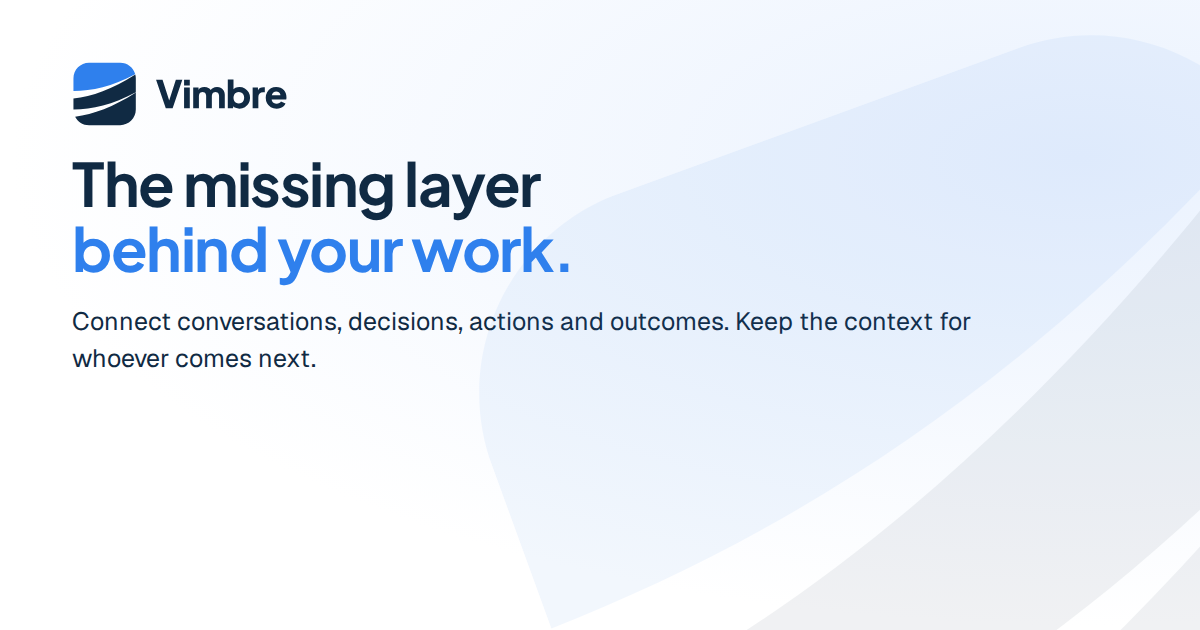
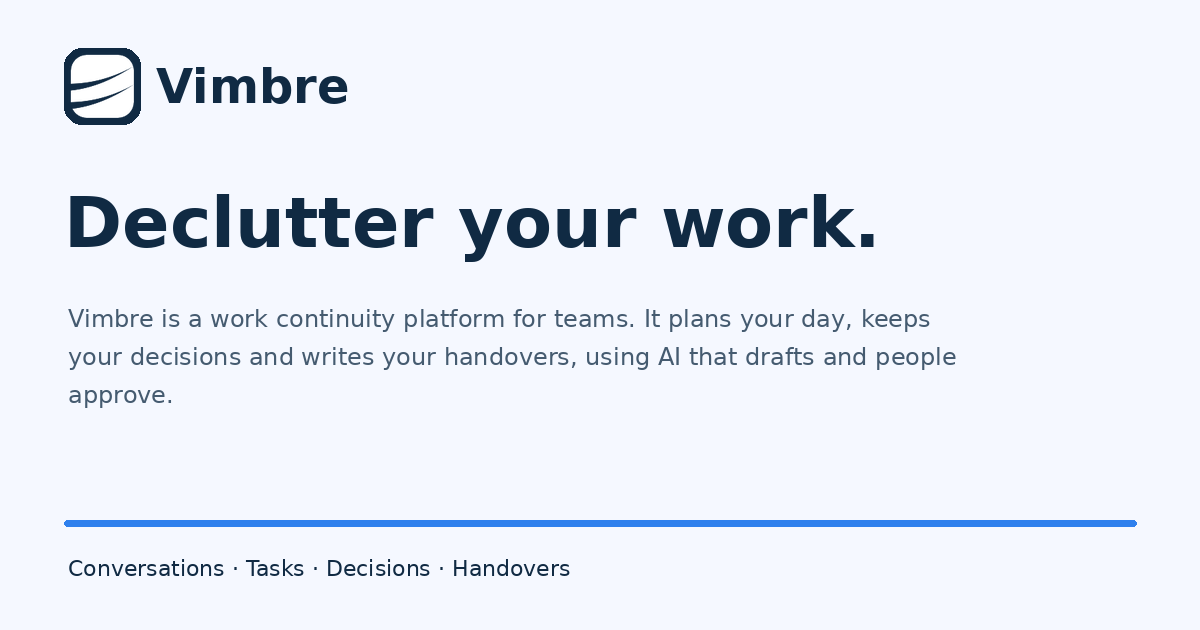
Add shared public page content and demo screenshots [skip ci]

diff --git a/src/features/public/public-content.ts b/src/features/public/public-content.ts
@@ -1,0 +1,26 @@
+export const definition='Vimbre is a work continuity platform for teams. It plans your day, keeps your decisions and writes your handovers, using AI that drafts and people approve.'
+export const headline='Declutter your conversations, tasks, decisions, contacts, handovers and week.'
+export const integrations=[
+ {id:'teams',name:'Microsoft Teams',detail:'Bring selected conversations into Capture.'},
+ {id:'trello',name:'Trello',detail:'Bring selected cards into Capture.'},
+ {id:'slack',name:'Slack',detail:'Bring selected conversations into Capture.'},
+ {id:'outlook',name:'Outlook',detail:'Bring selected email into Capture.'},
+ {id:'github',name:'GitHub',detail:'Bring selected repository records into Capture.'},
+ {id:'notion',name:'Notion',detail:'Bring selected pages into Capture.'},
+ {id:'asana',name:'Asana',detail:'Bring selected tasks into Capture.'},
+ {id:'yahoo',name:'Yahoo Mail',detail:'Direct connection is not available. You can paste email text into Capture.'},
+]
+export const features=['Conversation capture and reviewed task drafts','Daily task planning','Decision records','Role contacts','Reviewed handovers','Weekly and monthly summaries','Team chat and private workspace questions']
+export const publicPages:Record<string,{title:string;description:string;heading:string;intro:string;sections:[string,string][]}>={
+ '/pricing':{title:'Pricing | Vimbre',description:'Compare Vimbre Free, Starter, Growth, Business and Enterprise plans, monthly GBP prices, team sizes and AI allowances.',heading:'How much does Vimbre cost?',intro:'Choose a plan for the people and work you need to keep connected.',sections:[]},
+ '/faq':{title:'FAQ | Vimbre',description:'Answers about Vimbre, reviewed AI drafts, account types, integrations, pricing and information access.',heading:'Questions about Vimbre',intro:'What to know before bringing your work into Vimbre.',sections:[]},
+ '/how-it-works':{title:'How Vimbre works | Vimbre',description:'See how conversations become reviewed tasks and decisions, a daily plan and a handover in Vimbre.',heading:'How does Vimbre work?',intro:'Bring in the conversation. Check the draft. Keep the work ready for the next person.',sections:[['Bring in the conversation','Paste text or select a source from an available connection. Your Capture drafts stay private until you review and confirm them.'],['Review the suggested work','Check the task, owner and date. Edit or dismiss suggestions before saving.'],['Plan the day','Keep tasks, due dates and priorities together. Ask AI to suggest what deserves attention today, then accept or change the suggestions.'],['Prepare the handover','Choose the tasks and role records to include. Review the AI draft and follow your company’s approval process.']]},
+ '/integrations':{title:'Integrations | Vimbre',description:'Explore Microsoft Teams, Trello, Slack, Outlook, GitHub, Notion, Asana and the current Yahoo Mail connection status.',heading:'What does Vimbre work with?',intro:'Bring selected work into Capture. Connection availability depends on your company settings and provider setup.',sections:[]},
+ '/use-cases/handover':{title:'Work handovers | Vimbre',description:'Prepare a reviewed handover from selected tasks, decisions, contacts and role records in Vimbre.',heading:'How do you prepare a clearer handover?',intro:'Give the person covering the work its priorities, decisions and next steps.',sections:[['Choose what the person needs','Select relevant tasks and role records, set the cover dates and choose a cover person.'],['Review the draft','Use Vimbre AI to draft from the selected records, or write the handover yourself. Edit before sending it for review.'],['Keep cover access specific','Approved cover follows the selected work and dates. Private notes are not included unless explicitly selected and permitted.']]},
+ '/use-cases/decisions':{title:'Decision records | Vimbre',description:'Record decisions, who made them, their reasons and the next steps alongside work in Vimbre.',heading:'How do you keep the reason behind a decision?',intro:'Keep what was agreed with who decided, why and what comes next.',sections:[['Capture the agreement','Ask AI for a decision draft from a conversation, or add the record manually.'],['Check the facts','Review the wording, decision maker, date and reason. A suggestion stays a draft until you confirm it.'],['Find the context later','Open the record or ask VimbreAI about records you have permission to read.']]},
+ '/use-cases/workday-planner':{title:'Workday planner | Vimbre',description:'Organise tasks, due dates and reviewed AI priority suggestions with Vimbre My day.',heading:'How do you decide what comes first today?',intro:'See your tasks and due dates together, then choose what needs attention.',sections:[['Start with your tasks','Check today’s work, overdue items and tasks already in progress.'],['Review priorities with AI','Ask for suggestions based on your tasks. Accept, reject or change the suggested priority.'],['Keep the plan current','Update progress as you work and move unfinished tasks to an appropriate date.']]},
+ '/for-individuals':{title:'Vimbre for individuals',description:'Use Vimbre for personal work, tasks, decisions and weekly summaries with an individual account.',heading:'How can individuals use Vimbre?',intro:'Keep your own work, decisions and next steps in one place.',sections:[['Your personal work','Sign up as an Individual and organise your tasks without setting up a company team.'],['A record you can return to','Capture notes, review suggested tasks and decisions, and ask questions about your saved work.'],['A week you can review','Select a week or month to draft a summary from your records.']]},
+ '/for-founders':{title:'Vimbre for sole founders',description:'Keep client work, decisions, contacts and priorities connected with a Vimbre sole founder account.',heading:'How can sole founders use Vimbre?',intro:'Keep track of the decisions and commitments behind your business.',sections:[['Start as a sole founder','Choose As a sole founder at signup and give your workspace a name.'],['Keep client context','Save the tasks, decisions and contacts you need to follow through on conversations.'],['Prepare for help or cover','Keep role records and selected work ready for a handover when someone supports you.']]},
+ '/for-companies':{title:'Vimbre for companies',description:'Use Vimbre to keep team tasks, decisions, role records and reviewed handovers connected within company permissions.',heading:'How can companies use Vimbre?',intro:'Keep work ready to continue when people are away, change roles or need context.',sections:[['Set up the team','Invite members and organise departments and managers where needed.'],['Keep responsibility clear','Use tasks, decision records and role information to preserve the context behind work.'],['Prepare for cover','Review handovers and give cover access to the selected work. Managers see the permitted team overview.']]},
+}
+export const metaFor=(path:string)=>path==='/'?{title:'Vimbre | Declutter your work',description:definition}:publicPages[path]??({title:path==='/tour'?'Product tour | Vimbre':path==='/signup'?'Create your account | Vimbre':path==='/forgot'?'Reset your password | Vimbre':path==='/reset-password'?'Choose a new password | Vimbre':'Log in | Vimbre',description:path==='/tour'?'Explore Vimbre in about a minute, using screenshots from a Demo workspace.':definition})

diff --git a/src/features/public/public-pages.css b/src/features/public/public-pages.css
@@ -1,0 +1,2 @@
+.rs-site .public-hero{padding-top:64px;padding-bottom:48px}.public-hero>.rs-container{text-align:center;max-width:1120px}.public-hero h1{font-size:clamp(42px,7vw,82px);line-height:1.08;margin:16px auto 24px;letter-spacing:-.025em}.public-hero .rf-headline-fixed,.public-hero .rf-rotating-word{display:block}.public-hero .rf-rotating-word{height:auto;min-height:1.15em;white-space:normal;overflow:visible}.public-hero .rf-rotating-word>span{position:static;display:block;color:#2867ce;animation:public-word .4s ease}.public-hero .rs-hero-subhead{max-width:720px;margin-inline:auto;font-size:18px;line-height:1.7}.public-role-picker{display:flex;flex-wrap:wrap;justify-content:center;gap:6px;margin:24px 0 18px}.public-role-picker button,.public-step-tabs button{min-height:44px;padding:8px 16px;border:1px solid #dce4ee;border-radius:24px;background:white;color:#56677b;font:inherit;cursor:pointer}.public-role-picker [aria-pressed=true],.public-step-tabs [aria-pressed=true]{border-color:#2867ce;color:#174caa;background:#edf4ff}.public-hero-card{margin-top:40px;text-align:left;border:1px solid #dce5f0;border-radius:18px;background:white;box-shadow:0 16px 56px #163d6d14;overflow:hidden}.public-card-bar{display:flex;align-items:center;gap:16px;padding:12px 20px;background:#f8fafd;border-bottom:1px solid #e2e8f0;font-size:12px;color:#637487}.public-card-bar>span:first-child{font-weight:600;color:#102a43}.public-card-bar button{margin-left:auto;background:transparent;border:0;color:#2867ce;font:inherit;min-height:32px;cursor:pointer}.public-hero-card picture,.public-screen picture{display:block}.public-hero-card img,.public-screen img{display:block;width:100%;height:auto;max-width:100%;object-fit:contain}.public-hero-caption{padding:20px 24px;border-top:1px solid #e2e8f0}.public-hero-caption p{margin:8px 0;color:#64748b}.public-card-dots{display:flex;gap:2px}.public-card-dots button{padding:12px 4px;border:0;background:none;cursor:pointer}.public-card-dots button:after{content:'';display:block;height:4px;width:24px;background:#dce4ee;border-radius:4px}.public-card-dots button[aria-pressed=true]:after{background:#2867ce}.public-link-grid{display:grid;grid-template-columns:repeat(3,minmax(0,1fr));gap:20px;margin-top:32px}.public-link-grid>a{padding:28px;border:1px solid #dce4ee;border-radius:14px;text-decoration:none;background:white;color:#102a43}.public-link-grid h3{font-size:19px;margin:0 0 14px}.public-link-grid p,.public-integrations p{color:#657487;line-height:1.7}.public-product,.public-brief{background:#f6f9fe}.public-step-tabs{display:flex;gap:8px;flex-wrap:wrap;margin:28px 0 20px}.public-screen{border:1px solid #dce4ee;border-radius:12px;overflow:hidden;background:white}.public-step-caption{display:grid;gap:8px;margin-top:20px}.public-step-caption>span{font-size:12px;font-weight:600;color:#2867ce;text-transform:uppercase;letter-spacing:.05em}.public-step-caption p{margin:0}.public-integrations{display:grid;grid-template-columns:repeat(4,minmax(0,1fr));gap:16px;margin:32px 0}.public-integrations article{padding:20px;border:1px solid #e1e7f0;border-radius:12px}.public-integrations h3{font-size:17px;margin:0 0 12px}.public-integrations p{font-size:14px;margin:0}.public-brief .rs-container{max-width:860px}.public-brief p{line-height:1.8}.public-faq details{border-bottom:1px solid #dce4ee}.public-faq summary{display:flex;justify-content:space-between;gap:16px;padding:22px 0;font-weight:600;cursor:pointer;list-style:none}.public-faq summary::-webkit-details-marker{display:none}.public-faq details p{line-height:1.8;padding-bottom:20px;color:#56677b}.public-faq details[open] summary span{transform:rotate(45deg)}.public-page-intro{padding-top:72px}.public-page-intro h1,.public-tour h1{font-size:clamp(34px,5vw,58px);line-height:1.15;max-width:840px;margin:12px 0 24px}.public-lead{font-size:20px;line-height:1.7;max-width:760px}.public-page-sections{max-width:760px;margin:48px 0}.public-page-sections section{margin:36px 0}.public-page-sections h2{font-size:25px}.public-page-sections p{line-height:1.8}.public-pricing-note{font-size:14px;line-height:1.7;color:#657487}.public-tour-screen{position:relative;max-width:1000px}.public-tour-progress{color:#657487;font-size:13px}.public-hotspot{position:absolute;width:44px;height:44px;transform:translate(-50%,-50%);border:3px solid white;border-radius:50%;background:#2867ce;color:white;font-size:24px;box-shadow:0 0 0 8px #2867ce30;cursor:pointer}.public-tour-actions{display:flex;justify-content:space-between;margin-top:24px;max-width:1000px}.public-tour .rs-container>p{max-width:760px;line-height:1.7}.rs-site .rs-plan{min-width:0}.rs-site .rs-plan ul{padding-left:18px}.rs-site .rs-plan li{display:list-item}.rs-site .rs-header-actions .rs-login{display:inline-flex;align-items:center;white-space:nowrap}.rs-site .rs-nav .rs-mobile-login{display:none}.rs-site .rs-footer nav{flex-wrap:wrap}.rs-site a:focus-visible,.rs-site button:focus-visible,.rs-site summary:focus-visible{outline:2px solid #2867ce;outline-offset:4px}@keyframes public-word{from{opacity:.45;transform:translateY(6px)}to{opacity:1;transform:none}}@media(max-width:900px){.public-integrations{grid-template-columns:repeat(2,minmax(0,1fr))}.public-link-grid{gap:12px}.public-link-grid>a{padding:20px}}@media(max-width:600px){.rs-site .public-hero{padding-top:40px}.public-hero h1{font-size:42px}.public-hero .rs-hero-subhead{font-size:16px}.public-link-grid{grid-template-columns:1fr}.public-hero-card{margin-top:28px}.public-card-bar{gap:8px;padding:8px 12px}.public-card-bar>span:nth-child(2){margin-left:auto}.public-hero-card img,.public-screen img{aspect-ratio:390/844}.public-hero-caption{padding:16px}.public-page-intro{padding-top:40px}.public-page-intro h1,.public-tour h1{font-size:34px}.public-integrations{gap:10px}.public-integrations article{padding:16px 12px}.public-integrations h3{font-size:16px}.public-step-tabs{gap:6px}.public-step-tabs button{padding:8px 12px;font-size:13px}.rs-site .rs-header-inner{gap:8px}.rs-site .rs-header-actions{gap:10px}.rs-site .rs-header .rs-brand img{width:94px;height:auto}.rs-site .rs-header-cta{font-size:12px;padding:10px 12px}.rs-site .rs-header-actions .rs-login{font-size:12px}.rs-site .rs-menu{width:36px;height:44px;padding:6px}.public-tour .public-hotspot{left:75%!important;top:60%!important}}@media(prefers-reduced-motion:reduce){.public-hero .rf-rotating-word>span{animation:none}}
+.rs-site .public-hero h1{text-align:center}.rs-site .public-hero .rs-actions{justify-content:center}

diff --git a/src/features/public/Walkthrough.tsx b/src/features/public/Walkthrough.tsx
@@ -1,0 +1,7 @@
+import {useEffect,useRef,useState} from 'react'
+import {Link} from 'react-router-dom'
+import {walkthrough,type WalkthroughStep} from './walkthrough.config'
+import {trackMarketing} from './marketing-analytics'
+export function WalkthroughImage({step,priority=false}:{step:WalkthroughStep;priority?:boolean}){return <picture><source media="(max-width:600px)" srcSet={`${step.screenshots.mobile.oneX} 1x, ${step.screenshots.mobile.twoX} 2x`}/><img src={step.screenshots.desktop.oneX} srcSet={`${step.screenshots.desktop.oneX} 1x, ${step.screenshots.desktop.twoX} 2x`} width="1440" height="900" loading={priority?'eager':'lazy'} fetchPriority={priority?'high':'auto'} alt={`${step.featureTag} in Demo workspace: ${step.oneLine}`}/></picture>}
+export function Walkthrough({active,onChange}:{active:number;onChange:(n:number)=>void}){const ref=useRef<HTMLDivElement>(null),seen=useRef(new Set<string>());useEffect(()=>{const node=ref.current;if(!node||seen.current.has(walkthrough[active].id))return;const observer=new IntersectionObserver(entries=>{if(entries.some(e=>e.isIntersecting)){seen.current.add(walkthrough[active].id);trackMarketing('walkthrough_view',{step:walkthrough[active].id});observer.disconnect()}},{threshold:.3});observer.observe(node);return()=>observer.disconnect()},[active]);return <div ref={ref} className="public-walkthrough" data-step={walkthrough[active].id}><div className="public-step-tabs" role="group" aria-label="Walkthrough steps">{walkthrough.map((step,i)=><button key={step.id} type="button" aria-pressed={active===i} onClick={()=>onChange(i)}>{step.title}</button>)}</div><div className="public-screen"><WalkthroughImage step={walkthrough[active]}/></div><div className="public-step-caption"><span>{walkthrough[active].featureTag}</span><p>{walkthrough[active].oneLine}</p><Link to="/tour">Take the one-minute tour →</Link></div></div>}
+export function ProductTour(){const [active,setActive]=useState(-1);const [complete,setComplete]=useState(false);const step=walkthrough[Math.max(0,active)];function start(){setActive(0);trackMarketing('tour_start',{})}function next(){if(active===walkthrough.length-1){setComplete(true);trackMarketing('tour_complete',{})}else setActive(i=>i+1)}return <section className="rs-section public-tour"><div className="rs-container"><p className="rs-eyebrow">Demo workspace · About a minute</p><h1 tabIndex={-1}>A quick look at Vimbre</h1>{active<0?<><p>Follow a conversation through tasks, decisions, contacts, a handover and the week’s summary.</p><button className="rs-button" type="button" onClick={start}>Start the tour</button><noscript><ol>{walkthrough.map(s=><li key={s.id}>{s.title}: {s.oneLine}</li>)}</ol></noscript></>:complete?<><h2>Ready for your own work?</h2><p>Create your account and bring in your first conversation.</p><Link className="rs-button" to="/signup" onClick={()=>trackMarketing('cta_click',{location:'final'})}>Get started</Link><button className="rs-text-link" onClick={()=>{setComplete(false);start()}}>Replay the tour</button></>:<><p className="public-tour-progress">Step {active+1} of {walkthrough.length} · {step.featureTag}</p><h2>{step.title}</h2><p>{step.oneLine}</p><div className="public-screen public-tour-screen"><WalkthroughImage step={step} priority/><button className="public-hotspot" type="button" style={{left:step.hotspot.x+'%',top:step.hotspot.y+'%'}} onClick={next} aria-label={step.hotspot.label}>+</button></div><div className="public-tour-actions"><button type="button" className="rs-button rs-button-outline" disabled={active===0} onClick={()=>setActive(i=>i-1)}>Back</button><button type="button" className="rs-button" onClick={next}>{active===walkthrough.length-1?'Finish tour':'Next'}</button></div></>}</div></section>}

diff --git a/src/features/public/walkthrough.config.ts b/src/features/public/walkthrough.config.ts
@@ -1,0 +1,12 @@
+// Standard-density review captures are present. Native 2x export remains pending; use the 1x fallback without upscaling.
+/** All public screenshots and tour steps come from this verified manifest. */
+export type WalkthroughStep = {id:string;title:string;oneLine:string;featureTag:string;lastVerified:string;screenshots:{desktop:{oneX:string;twoX:string};mobile:{oneX:string;twoX:string}};route:string;hotspot:{x:number;y:number;label:string}}
+const screen=(id:string)=>({desktop:{oneX:`/walkthrough/${id}-desktop.png`,twoX:`/walkthrough/${id}-desktop.png`},mobile:{oneX:`/walkthrough/${id}-mobile.png`,twoX:`/walkthrough/${id}-mobile.png`}})
+export const walkthrough:WalkthroughStep[]=[
+ {id:'conversations',title:'Conversations',oneLine:'Bring in a conversation and review the suggested tasks and decisions.',featureTag:'Capture',route:'/app/capture',hotspot:{x:72,y:61,label:'Review the suggested tasks'},lastVerified:'2026-11-03',screenshots:screen('conversations')},
+ {id:'tasks',title:'Tasks',oneLine:'Choose what needs attention today, with your tasks and due dates together.',featureTag:'My day',route:'/app',hotspot:{x:62,y:57,label:'See the tasks for today'},lastVerified:'2026-11-03',screenshots:screen('tasks')},
+ {id:'decisions',title:'Decisions',oneLine:'Keep what was agreed, who decided and why it matters.',featureTag:'My role',route:'/app/role-record?section=decision',hotspot:{x:65,y:48,label:'Read the recorded decision'},lastVerified:'2026-11-03',screenshots:screen('decisions')},
+ {id:'contacts',title:'Contacts',oneLine:'Keep the people someone needs to contact with the work they help with.',featureTag:'My role',route:'/app/role-record?section=external_contact',hotspot:{x:65,y:48,label:'See the supplier contact'},lastVerified:'2026-11-03',screenshots:screen('contacts')},
+ {id:'handovers',title:'Handovers',oneLine:'Select the work, check the summary and prepare it for the person covering.',featureTag:'Handovers',route:'/app/handovers/77777777-7777-4777-8777-777777777777',hotspot:{x:71,y:55,label:'Review the handover'},lastVerified:'2026-11-03',screenshots:screen('handovers')},
+ {id:'week',title:'Week',oneLine:'Review completed work, open tasks and decisions for the selected period.',featureTag:'Weekly summary',route:'/app/weekly-summary',hotspot:{x:62,y:45,label:'Read the weekly summary'},lastVerified:'2026-11-03',screenshots:screen('week')},
+]

diff --git a/src/features/public/PublicSections.tsx b/src/features/public/PublicSections.tsx
@@ -1,0 +1,8 @@
+import {Link} from 'react-router-dom'
+import {faq,plans,pricingDisclosure} from './landing-content'
+import {definition,integrations} from './public-content'
+import {trackMarketing} from './marketing-analytics'
+export function FAQ(){return <div className="rs-faq-list public-faq">{faq.map(([question,answer],i)=><details key={question} onToggle={e=>{if(e.currentTarget.open)trackMarketing('faq_open',{question})}}><summary id={'faq-'+i}>{question}<span aria-hidden="true">+</span></summary><p>{answer}</p></details>)}</div>}
+export function Pricing({authenticated=false}:{authenticated?:boolean}){return <><div className="rs-pricing">{plans.map(plan=><article key={plan.name} id={'plan-'+plan.name.toLowerCase()} className={'rs-plan '+(plan.name==='Growth'?'rs-plan-featured':'')}><h3>{plan.name}</h3><div className="rs-plan-price">{plan.price}{plan.amount!==null&&<span>per workspace / month</span>}</div><p>{plan.size}</p><p>{plan.positioning}</p><ul>{plan.items.map(item=><li key={item}>{item}</li>)}</ul><Link className="rs-button rs-button-outline" onClick={()=>trackMarketing('cta_click',{location:'pricing'})} to={plan.amount===null?'/#contact':authenticated?'/app/billing?plan='+plan.name.toLowerCase():'/signup?plan='+plan.name.toLowerCase()}>{plan.amount===null?'Contact us':plan.amount===0?'Get started':'Start free trial'}</Link></article>)}</div><p className="rf-pricing-disclosure">{pricingDisclosure}</p><p className="public-pricing-note">The paid-plan trial lasts 3 days and requires a card. You are charged when it ends unless you cancel. The Free plan needs no card.</p></>}
+export function IntegrationList(){return <div className="public-integrations">{integrations.map(tool=><article key={tool.id}><h3>{tool.name}</h3><p>{tool.detail}</p></article>)}</div>}
+export function InBrief(){return <section className="rs-section public-brief"><div className="rs-container"><h2>Vimbre in brief</h2><p>{definition}</p><p>For individuals managing personal work, sole founders and company teams.</p><p>Capture conversations, review task and decision drafts, plan the day, keep contacts, prepare handovers and summarise a week or month.</p><p>Tools: Microsoft Teams, Trello, Slack, Outlook, GitHub, Notion, Asana and Yahoo Mail. Connections depend on provider setup and workspace settings; Yahoo Mail currently supports pasted text only.</p></div></section>}

diff --git a/src/features/public/PublicPage.tsx b/src/features/public/PublicPage.tsx
@@ -1,0 +1,8 @@
+import {Link,useLocation} from 'react-router-dom'
+import {PublicFrame} from './PublicFrame'
+import {FAQ,InBrief,IntegrationList,Pricing} from './PublicSections'
+import {publicPages} from './public-content'
+import {ProductTour} from './Walkthrough'
+import {schema} from './landing-content'
+import {trackMarketing} from './marketing-analytics'
+export function PublicPage({path:given}:{path?:string}){const {pathname}=useLocation();const path=given??pathname;const page=publicPages[path];if(path==='/tour')return <PublicFrame><ProductTour/></PublicFrame>;if(!page)return null;return <PublicFrame><section className="rs-section public-page-intro"><div className="rs-container"><p className="rs-eyebrow">Vimbre</p><h1 tabIndex={-1}>{page.heading}</h1><p className="public-lead">{page.intro}</p>{path==='/pricing'?<Pricing/>:path==='/faq'?<FAQ/>:path==='/integrations'?<IntegrationList/>:<div className="public-page-sections">{page.sections.map(([title,body])=><section key={title}><h2>{title}</h2><p>{body}</p></section>)}</div>}<div className="rs-actions"><Link className="rs-button" to={'/signup'+(path==='/for-founders'?'?account_type=sole_founder':path==='/for-companies'?'?account_type=company':path==='/for-individuals'?'?account_type=individual':'')} onClick={()=>trackMarketing('cta_click',{location:'final'})}>Get started →</Link><Link className="rs-text-link" to="/tour">Take the product tour →</Link></div></div></section><InBrief/>{['/pricing','/faq'].includes(path)&&<script type="application/ld+json" dangerouslySetInnerHTML={{__html:JSON.stringify({'@context':schema['@context'],'@graph':schema['@graph'].filter(x=>x['@type']!=='FAQPage'||path==='/faq')}).replace(/</g,'\\u003c')}}/>}</PublicFrame>}

diff --git a/src/features/public/marketing-analytics.ts b/src/features/public/marketing-analytics.ts
@@ -1,0 +1,5 @@
+import {analyticsConsent} from '../../lib/analytics'
+export type AccountType='individual'|'sole_founder'|'company'
+type MarketingEvents={cta_click:{location:'header'|'hero'|'sticky'|'pricing'|'final'};account_type_selected:{account_type:AccountType};hero_role_selected:{account_type:AccountType};hero_demo_run:Record<string,never>;tour_start:Record<string,never>;tour_complete:Record<string,never>;walkthrough_view:{step:string};faq_open:{question:string}}
+/** GTM consumes named events. No identity, source content or conversion flag. */
+export function trackMarketing<E extends keyof MarketingEvents>(event:E,params:MarketingEvents[E]){if(typeof window==='undefined'||analyticsConsent()!=='accepted')return;const allowed:Record<string,string[]>={cta_click:['location'],account_type_selected:['account_type'],hero_role_selected:['account_type'],walkthrough_view:['step'],faq_open:['question'],hero_demo_run:[],tour_start:[],tour_complete:[]};if(!Object.hasOwn(allowed,event))return;const p=params as Record<string,unknown>;if(event==='cta_click'&&!['header','hero','sticky','pricing','final'].includes(String(p.location)))return;if((event==='account_type_selected'||event==='hero_role_selected')&&!['individual','sole_founder','company'].includes(String(p.account_type)))return;const clean:Record<string,string>={};for(const key of allowed[event]){const val=(params as Record<string,unknown>)[key];if(typeof val!=='string'||val.length>180)return;clean[key]=val}try{(window.dataLayer??=[]).push({event,...clean})}catch{/* Never block navigation. */}}

diff --git a/src/features/public/PublicFrame.tsx b/src/features/public/PublicFrame.tsx
@@ -1,0 +1,8 @@
+import type {ReactNode} from 'react'
+import {Link} from 'react-router-dom'
+import {BrandLogo} from '../../components/ui/BrandLogo'
+import {LandingHeader} from './LandingHeader'
+import {CookieSettingsLink} from '../analytics/AnalyticsConsent'
+import './landing.css'
+import './public-pages.css'
+export function PublicFrame({children,authenticated=false,loading=false}:{children:ReactNode;authenticated?:boolean;loading?:boolean}){return <div className="rs-site" data-theme="light"><a className="skip-link" href="#rs-main">Skip to content</a><LandingHeader authenticated={authenticated} loading={loading}/><main id="rs-main">{children}</main><footer className="rs-footer"><div className="rs-container"><div className="rs-footer-top"><Link className="rs-footer-brand" to="/" aria-label="Vimbre home"><BrandLogo/></Link><nav aria-label="Footer">{[['Product','/how-it-works'],['Pricing','/pricing'],['FAQ','/faq'],['Integrations','/integrations'],['Individuals','/for-individuals'],['Founders','/for-founders'],['Companies','/for-companies'],['Blog','/blog'],['Contact','/#contact'],['Privacy','/privacy'],['Terms','/terms']].map(([name,to])=><Link key={to} to={to}>{name}</Link>)}<CookieSettingsLink/></nav></div><p>© 2026 Genade Global Service Limited.</p></div></footer></div>}
